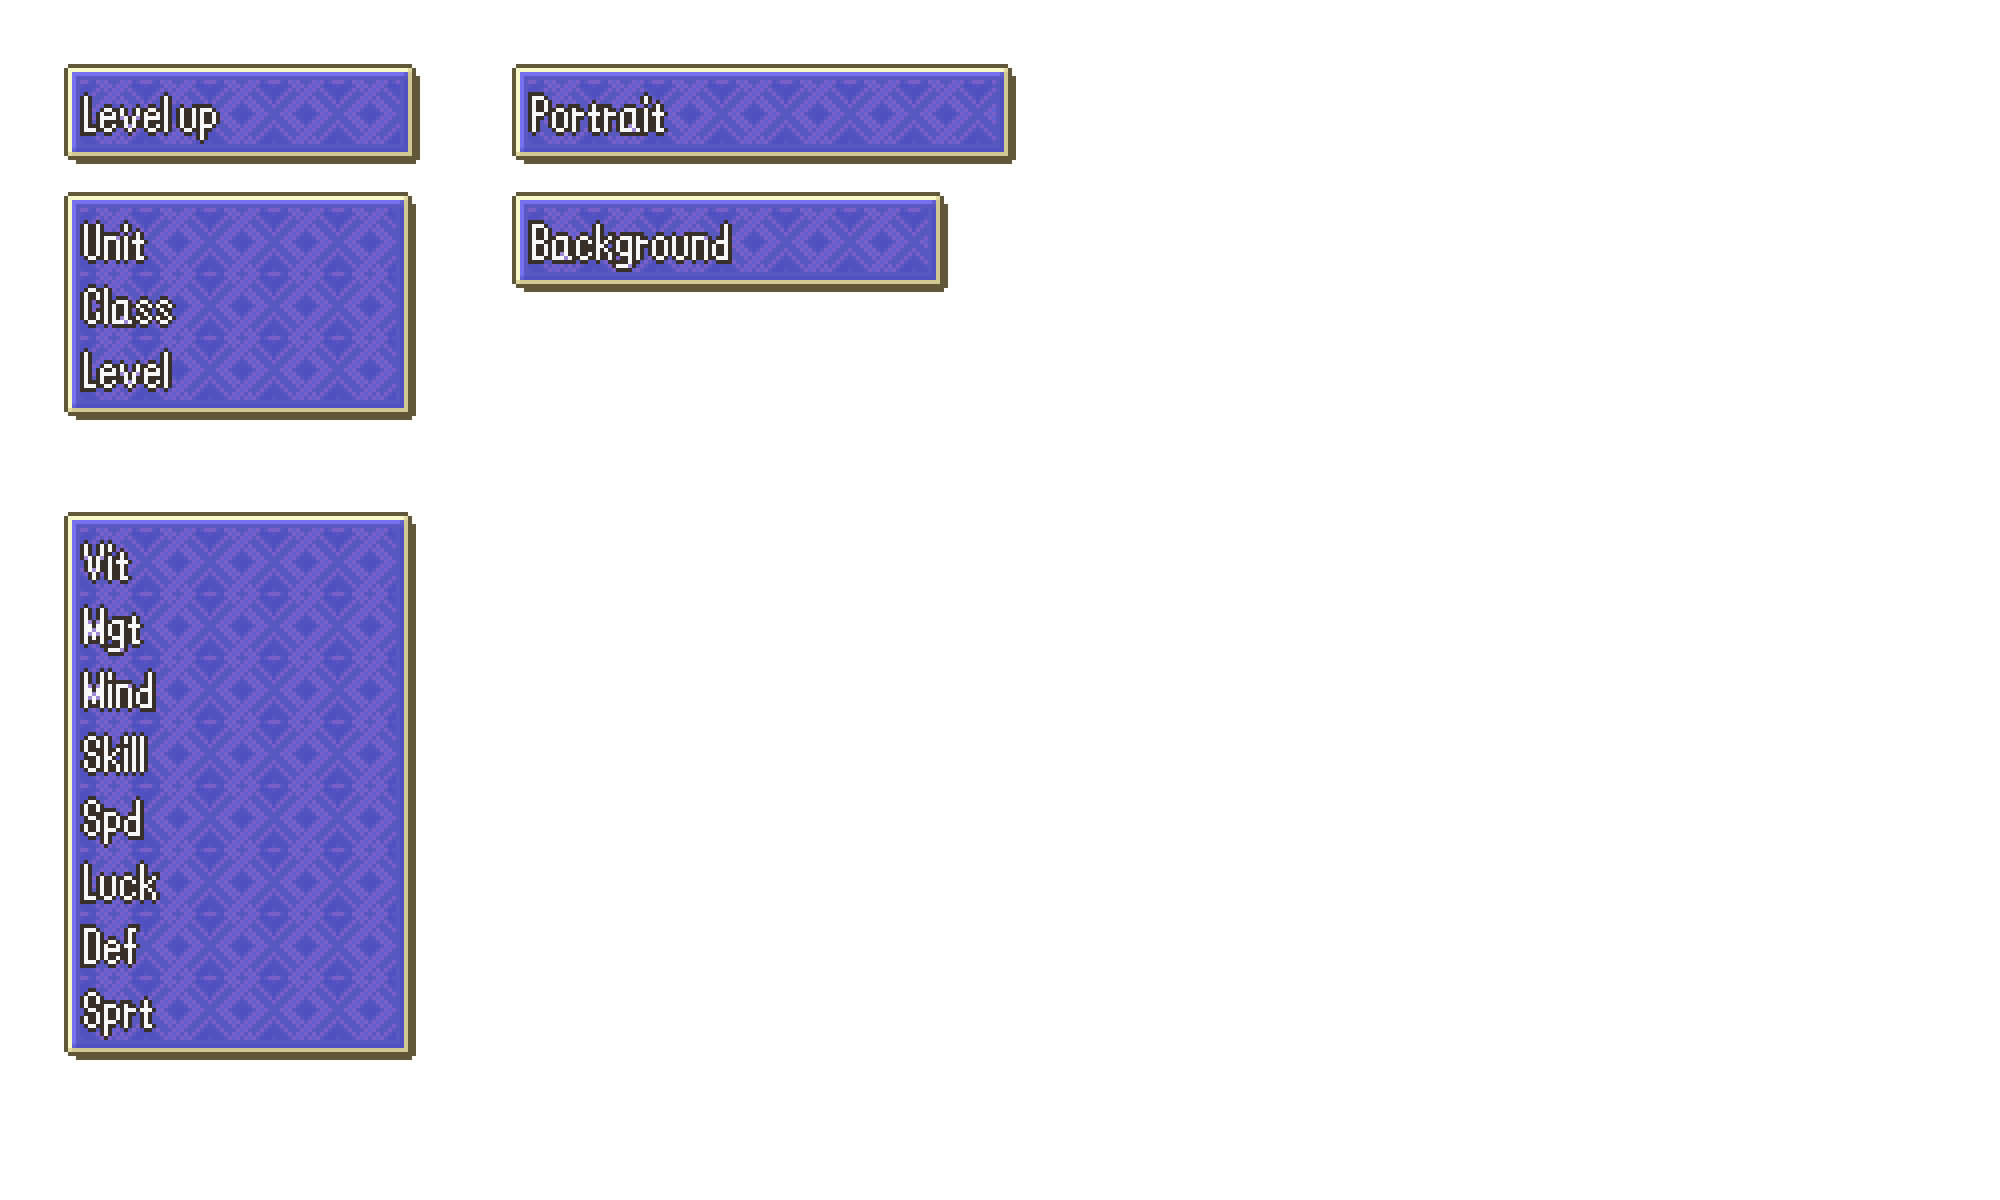
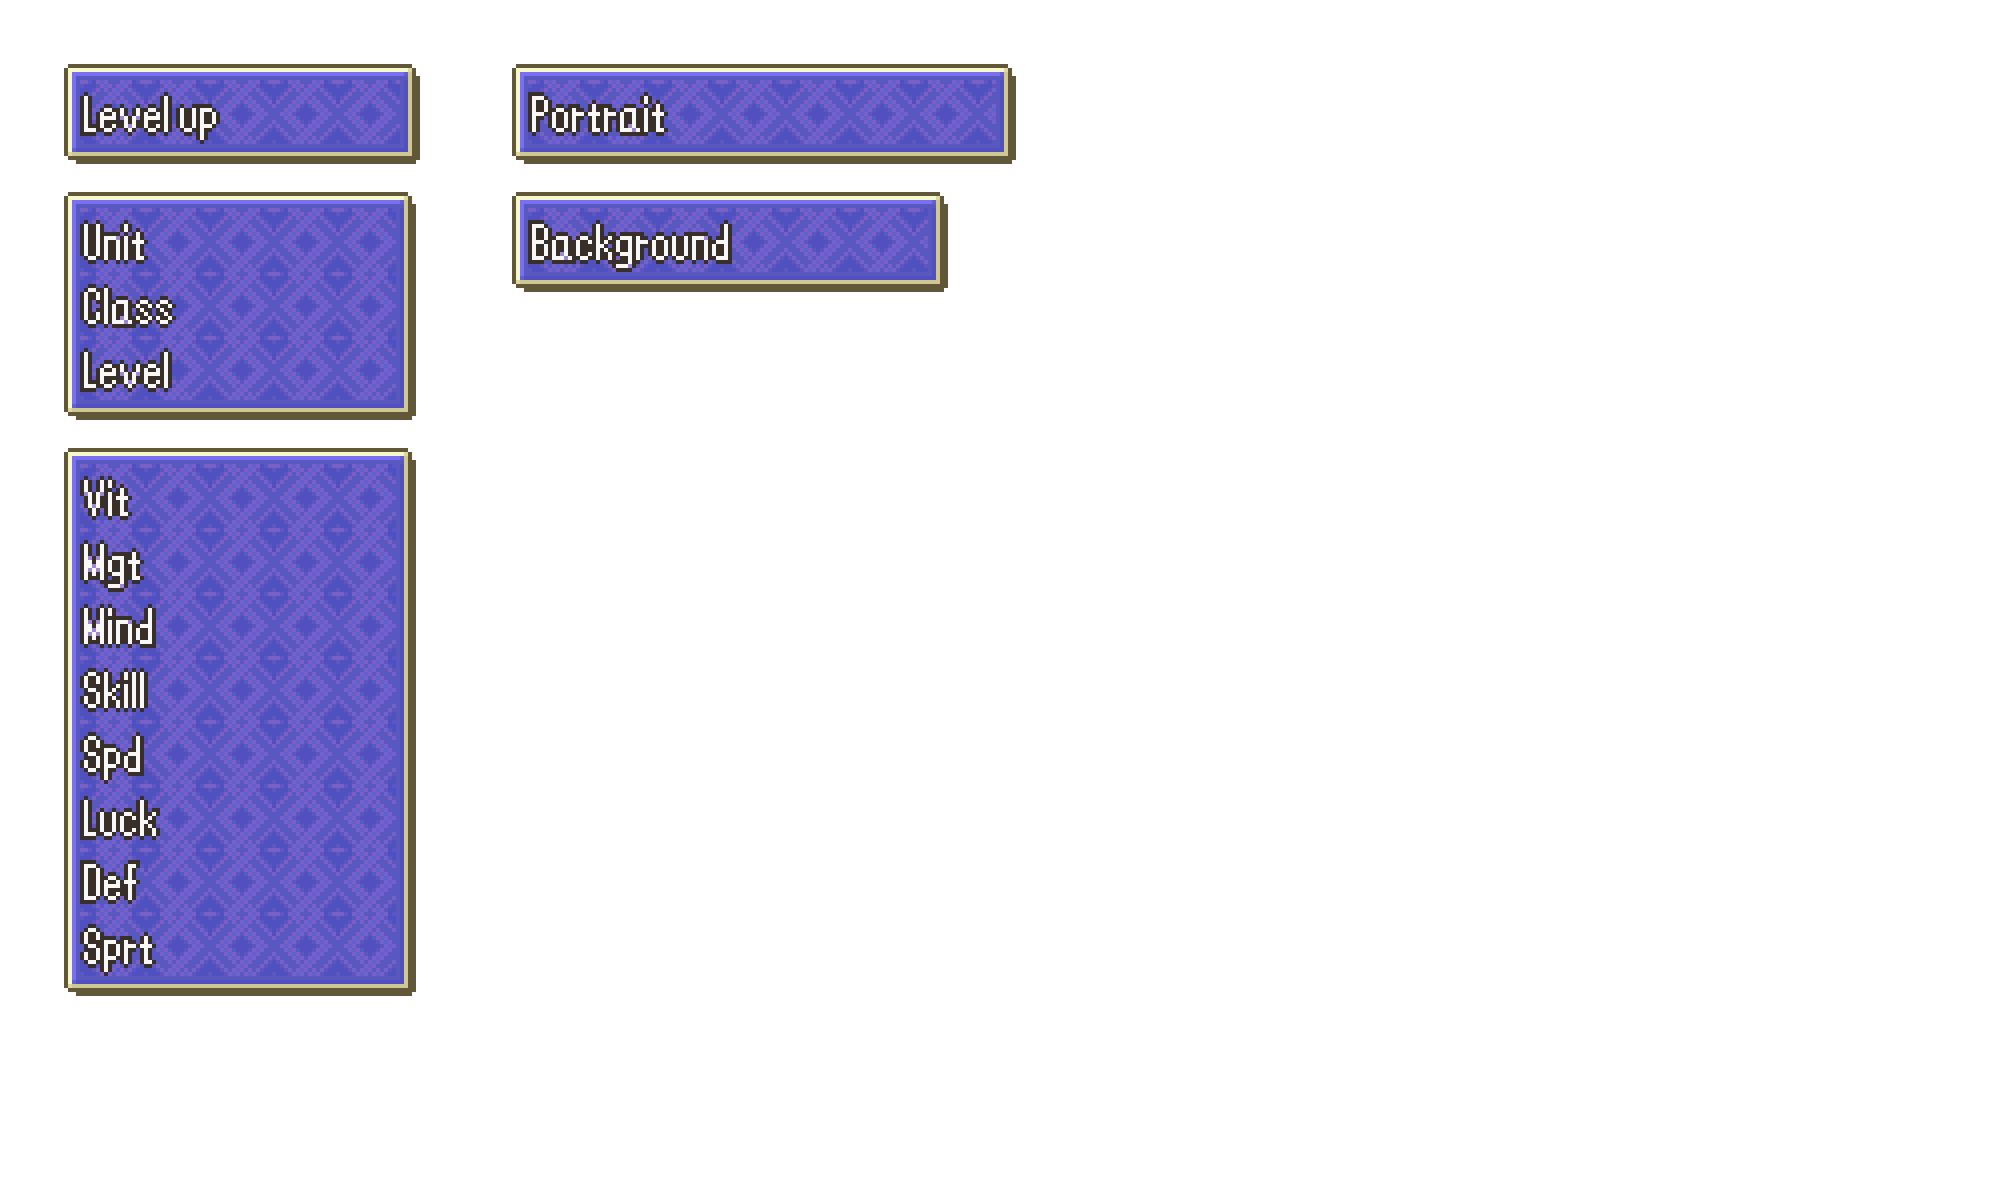
First reworks to UI p3

Changed region(s): [[0.031, 0.37, 0.217, 0.8942]]

diff --git a/main.py b/main.py
@@ -359,22 +359,22 @@ DEF_plus1_button = Button(tab_levelup, command = levelup_def_bg1, image = levelu
 DEF_plus2_button = Button(tab_levelup, command = levelup_def_bg2, image = levelup_plus1, bg='#f24f65')
 SPR_plus1_button = Button(tab_levelup, command = levelup_spr_bg1, image = levelup_plus1, bg='#f24f65')
 SPR_plus2_button = Button(tab_levelup, command = levelup_spr_bg2, image = levelup_plus1, bg='#f24f65')
-VIT_plus1_button.place(x=138, y=273)
-MGT_plus1_button.place(x=138, y=305)
-MND_plus1_button.place(x=138, y=337)
-SKL_plus1_button.place(x=138, y=369)
-SPD_plus1_button.place(x=138, y=401)
-LUK_plus1_button.place(x=138, y=433)
-DEF_plus1_button.place(x=138, y=465)
-SPR_plus1_button.place(x=138, y=497)
-VIT_plus2_button.place(x=172, y=273)
-MGT_plus2_button.place(x=172, y=305)
-MND_plus2_button.place(x=172, y=337)
-SKL_plus2_button.place(x=172, y=369)
-SPD_plus2_button.place(x=172, y=401)
-LUK_plus2_button.place(x=172, y=433)
-DEF_plus2_button.place(x=172, y=465)
-SPR_plus2_button.place(x=172, y=497)
+VIT_plus1_button.place(x=138, y=241)
+MGT_plus1_button.place(x=138, y=273)
+MND_plus1_button.place(x=138, y=305)
+SKL_plus1_button.place(x=138, y=337)
+SPD_plus1_button.place(x=138, y=369)
+LUK_plus1_button.place(x=138, y=401)
+DEF_plus1_button.place(x=138, y=433)
+SPR_plus1_button.place(x=138, y=465)
+VIT_plus2_button.place(x=172, y=241)
+MGT_plus2_button.place(x=172, y=273)
+MND_plus2_button.place(x=172, y=305)
+SKL_plus2_button.place(x=172, y=337)
+SPD_plus2_button.place(x=172, y=369)
+LUK_plus2_button.place(x=172, y=401)
+DEF_plus2_button.place(x=172, y=433)
+SPR_plus2_button.place(x=172, y=465)
 
 VIT_levelup_input = Entry(tab_levelup, width=5, justify='center')
 VIT_levelup_input.bind('<KeyRelease>', levelup_vit_num)
@@ -392,14 +392,14 @@ DEF_levelup_input = Entry(tab_levelup, width=5, justify='center')
 DEF_levelup_input.bind('<KeyRelease>', levelup_def_num)
 SPR_levelup_input = Entry(tab_levelup, width=5, justify='center')
 SPR_levelup_input.bind('<KeyRelease>', levelup_spr_num)
-VIT_levelup_input.place(x=94, y=274)
-MGT_levelup_input.place(x=94, y=306)
-MND_levelup_input.place(x=94, y=338)
-SKL_levelup_input.place(x=94, y=370)
-SPD_levelup_input.place(x=94, y=402)
-LUK_levelup_input.place(x=94, y=434)
-DEF_levelup_input.place(x=94, y=466)
-SPR_levelup_input.place(x=94, y=498)
+VIT_levelup_input.place(x=94, y=242)
+MGT_levelup_input.place(x=94, y=274)
+MND_levelup_input.place(x=94, y=306)
+SKL_levelup_input.place(x=94, y=338)
+SPD_levelup_input.place(x=94, y=370)
+LUK_levelup_input.place(x=94, y=402)
+DEF_levelup_input.place(x=94, y=434)
+SPR_levelup_input.place(x=94, y=466)
 # </editor-fold>
 
 # <editor-fold desc="Statsheet tab UI">
